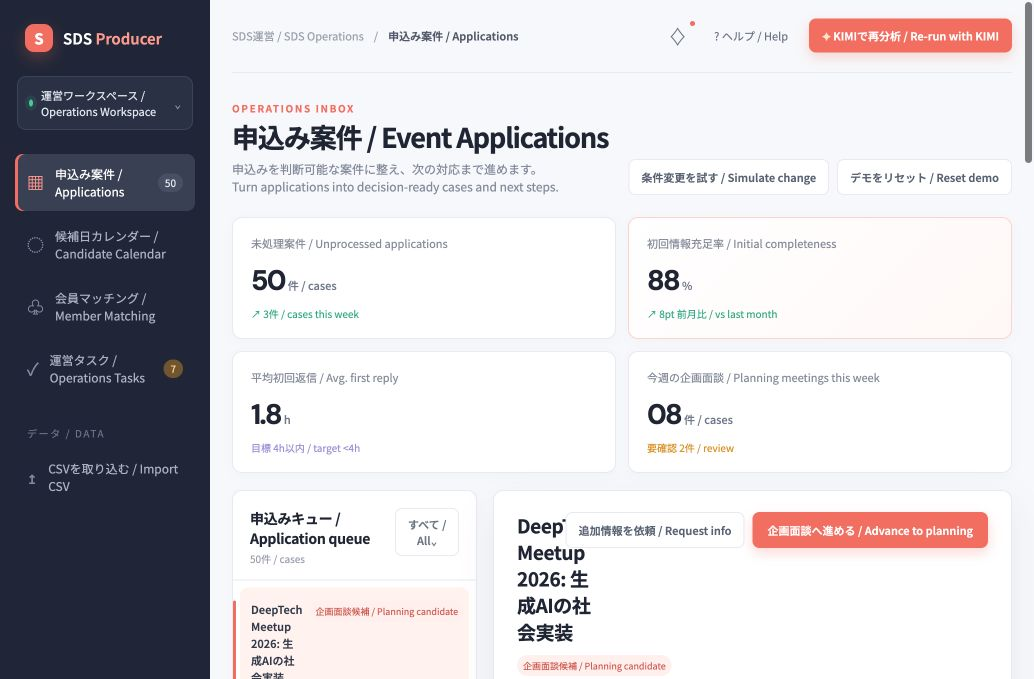
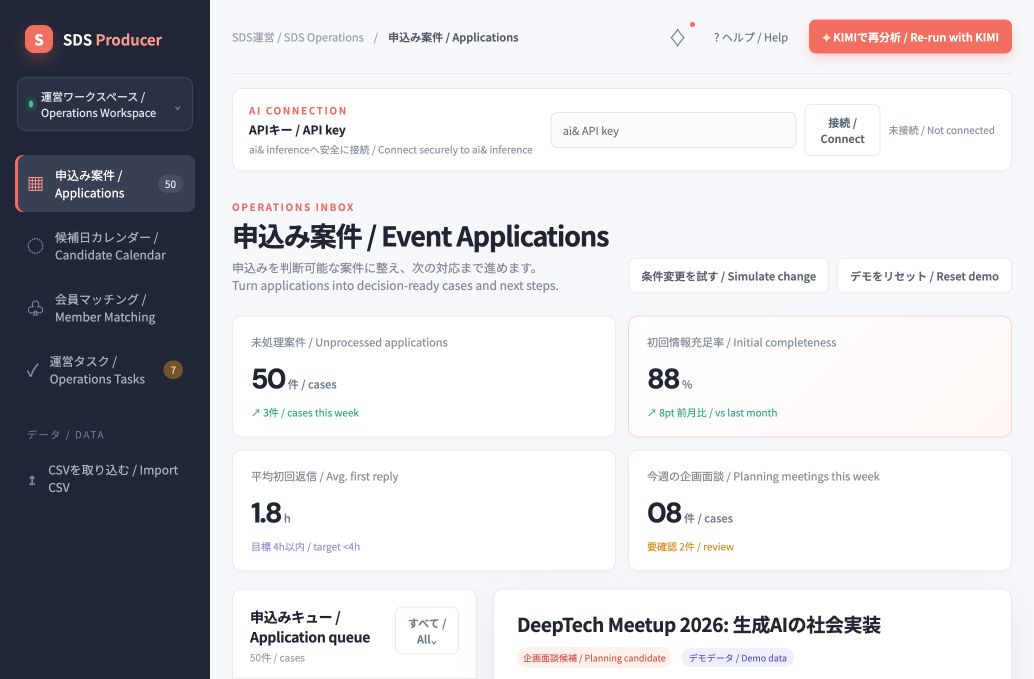
Add API key connection bar and fix responsive layout

diff --git a/public/styles.css b/public/styles.css
@@ -1,2 +1,3 @@
 :root{--ink:#1f2533;--muted:#788091;--line:#e8eaf0;--paper:#fff;--canvas:#f7f8fb;--navy:#202637;--coral:#f16e61;--coral-soft:#fff0ed;--mint:#2ea884;--mint-soft:#e8f7f1;--amber:#d99025;--amber-soft:#fff5df;--purple:#7765d8;--shadow:0 14px 36px rgba(32,38,55,.07)}*{box-sizing:border-box}body{margin:0;background:var(--canvas);color:var(--ink);font-family:"Noto Sans JP","DM Sans",sans-serif;font-size:13px}button{font:inherit;cursor:pointer;border:0;background:none;color:inherit}.app-shell{display:flex;min-height:100vh}.sidebar{width:240px;background:var(--navy);color:#dfe3ec;padding:25px 15px 18px;display:flex;flex-direction:column}.brand{display:flex;align-items:center;gap:10px;font-size:15px;font-weight:600;color:#fff;padding:0 10px 24px}.brand b{color:#ff9a8e;font-weight:600}.brand-mark{display:grid;place-items:center;width:28px;height:28px;border-radius:9px;background:var(--coral);color:#fff;font-weight:800;box-shadow:0 6px 14px #ef645546}.workspace-switcher{margin:0 2px 24px;padding:10px 11px;background:#2a3144;border:1px solid #3b4359;border-radius:9px;display:flex;align-items:center;gap:8px;font-size:11px}.pulse-dot,.online-dot{width:7px;height:7px;border-radius:50%;background:#49c794;box-shadow:0 0 0 4px #49c7941b}.chevron{margin-left:auto;color:#8992a7}.main-nav{display:grid;gap:5px}.nav-item{display:flex;align-items:center;gap:11px;padding:11px 12px;border-radius:8px;color:#aab2c3;text-align:left;font-size:12px}.nav-item span:first-child{font-size:17px;line-height:1;color:#7f8aa2}.nav-item.active{background:#3a4053;color:#fff;box-shadow:inset 3px 0 var(--coral)}.nav-item.active span:first-child{color:#ff978c}.nav-count{margin-left:auto;background:#474f64;padding:2px 7px;border-radius:99px;font-size:10px;color:#e6e9f0}.nav-count.amber{background:#71552f;color:#ffd998}.sidebar-section-label{font-size:10px;letter-spacing:.16em;color:#69738b;margin:29px 12px 8px}.sidebar-bottom{margin-top:auto}.kimi-card{display:flex;align-items:center;gap:9px;padding:12px;margin:10px 2px 17px;background:linear-gradient(135deg,#30384d,#293044);border:1px solid #444c61;border-radius:10px;position:relative}.kimi-card strong{display:block;color:#fff;font-size:12px}.kimi-card small{display:block;color:#98a1b4;font-size:10px;margin-top:2px}.kimi-orb{display:grid;place-items:center;width:30px;height:30px;border-radius:50%;background:linear-gradient(145deg,#ad9bff,#6d62cf);color:#fff;font-size:18px}.kimi-card .eyebrow{font-size:8px;color:#9ca7bc;margin-bottom:2px}.online-dot{margin-left:auto}.user-row{display:flex;align-items:center;gap:9px;padding:12px 8px 2px;border-top:1px solid #373e52}.avatar{display:grid;place-items:center;width:30px;height:30px;border-radius:9px;background:#f8aa80;color:#5b3242;font-weight:700;font-size:10px}.user-row strong{display:block;font-size:11px;color:#fff}.user-row small{display:block;color:#8992a7;font-size:10px;margin-top:2px}.more{margin-left:auto;color:#7e899e}.main-content{flex:1;min-width:0;padding:0 35px 45px}.topbar{height:74px;display:flex;align-items:center;justify-content:space-between;border-bottom:1px solid var(--line)}.breadcrumbs{display:flex;gap:10px;color:#9aa0ac;font-size:11px}.breadcrumbs strong{color:#515969;font-weight:600}.top-actions{display:flex;align-items:center;gap:15px}.icon-btn{font-size:19px;color:#6f7787;position:relative}.notification-dot{position:absolute;right:-2px;top:0;width:5px;height:5px;background:var(--coral);border-radius:50%}.help-btn{color:#697184;font-size:11px}.primary-btn,.secondary-btn,.filter-btn{border-radius:7px;font-size:11px;font-weight:600;transition:.2s}.primary-btn{background:var(--coral);color:#fff;padding:10px 15px;box-shadow:0 5px 12px #f16e6140}.primary-btn:hover{transform:translateY(-1px);background:#e75f53}.primary-btn.compact{padding:9px 13px}.secondary-btn{border:1px solid var(--line);background:#fff;color:#596273;padding:9px 12px}.secondary-btn:hover,.filter-btn:hover{border-color:#c8cdd9;background:#fafbfc}.sparkle{color:#ffe4ca}.page-heading{display:flex;justify-content:space-between;align-items:flex-end;padding:28px 0 22px}.eyebrow{font-size:10px;letter-spacing:.16em;font-weight:700;color:#8e96a5}.eyebrow.coral{color:var(--coral)}h1{font-size:27px;line-height:1.2;margin:5px 0 7px;letter-spacing:-.04em}h2{font-size:14px;margin:0;letter-spacing:-.02em}h3{font-size:13px;margin:0}.page-heading p{margin:0;color:#838b9b;font-size:12px}.heading-actions{display:flex;gap:8px}.kpi-grid{display:grid;grid-template-columns:repeat(4,1fr);gap:12px;margin-bottom:17px}.kpi-card{background:var(--paper);border:1px solid var(--line);border-radius:10px;padding:17px 18px;box-shadow:0 3px 12px #20263706}.kpi-card.accent{border-color:#ffd2cb;background:linear-gradient(135deg,#fff,#fff8f7)}.kpi-label{font-size:11px;color:#858c9a;margin-bottom:11px}.kpi-value{font-family:"DM Sans","Noto Sans JP",sans-serif;font-weight:700;font-size:28px;letter-spacing:-.06em}.kpi-unit{font-family:"Noto Sans JP",sans-serif;font-size:11px;font-weight:500;letter-spacing:0;margin-left:3px;color:#70798a}.kpi-trend{font-size:10px;margin-top:8px}.kpi-trend.up{color:var(--mint)}.kpi-trend.neutral{color:#9a91d8}.kpi-trend.amber{color:var(--amber)}.workspace-grid{display:grid;grid-template-columns:285px minmax(0,1fr);gap:16px;align-items:start}.card,.detail-card{background:var(--paper);border:1px solid var(--line);border-radius:10px;box-shadow:0 3px 12px #20263705}.case-list{overflow:hidden;min-height:630px}.card-header{padding:17px 17px 13px;display:flex;justify-content:space-between;align-items:flex-start;border-bottom:1px solid var(--line)}.muted{color:#9aa1ad;font-size:10px}.filter-btn{border:1px solid var(--line);padding:7px 10px;color:#6e7686;background:#fff}.case-list-items{padding:7px}.case-row{padding:13px 11px;border-radius:8px;cursor:pointer;position:relative;margin-bottom:2px}.case-row:hover{background:#faf9fb}.case-row.selected{background:#fff2ef}.case-row.selected:before{content:"";position:absolute;left:-7px;top:13px;bottom:13px;width:3px;border-radius:4px;background:var(--coral)}.case-row-top{display:flex;justify-content:space-between;gap:7px;align-items:start}.case-row-title{font-weight:600;font-size:11px;line-height:1.55;color:#333a49}.case-row-company{font-size:10px;color:#9299a7;margin-top:4px}.status-pill{font-size:9px;padding:4px 6px;border-radius:99px;white-space:nowrap}.status-pill.coral{color:#ce554c;background:var(--coral-soft)}.status-pill.mint{color:#23876b;background:var(--mint-soft)}.status-pill.amber{color:#a26b18;background:var(--amber-soft)}.case-detail{min-width:0}.detail-hero{background:var(--paper);border:1px solid var(--line);border-radius:10px;box-shadow:var(--shadow);padding:21px 23px 20px;display:flex;justify-content:space-between;gap:18px}.detail-hero-main{min-width:0}.detail-title-line{display:flex;align-items:center;gap:10px;margin-bottom:6px;flex-wrap:wrap}.detail-title-line h2{font-size:19px;line-height:1.4}.hero-meta{display:flex;gap:17px;color:#858d9d;font-size:10px;margin-top:11px;flex-wrap:wrap}.hero-meta strong{color:#4f5868;font-weight:600;margin-right:4px}.hero-actions{display:flex;gap:8px;align-items:flex-start;flex-shrink:0}.progress-block{margin-top:16px;max-width:390px}.progress-label{display:flex;justify-content:space-between;color:#7f8796;font-size:10px;margin-bottom:6px}.progress-label strong{color:#4b5566}.progress-track{height:6px;background:#edf0f4;border-radius:99px;overflow:hidden}.progress-fill{height:100%;background:linear-gradient(90deg,#f49a86,#f16e61);border-radius:99px}.detail-grid{display:grid;grid-template-columns:minmax(0,1.1fr) minmax(270px,.9fr);gap:14px;margin-top:14px}.detail-card{padding:18px}.section-heading{display:flex;justify-content:space-between;align-items:center;margin-bottom:14px}.section-heading h3{font-size:12px}.section-heading .section-kicker{font-size:9px;letter-spacing:.12em;color:#a1a7b3}.fit-layout{display:flex;gap:17px;align-items:center}.fit-score{width:76px;height:76px;border-radius:50%;display:grid;place-items:center;background:conic-gradient(var(--coral) 0 312deg,#f0f1f4 312deg 360deg);position:relative;flex-shrink:0}.fit-score:after{content:"";position:absolute;inset:7px;background:#fff;border-radius:50%}.fit-score strong,.fit-score small{position:relative;z-index:1}.fit-score strong{font-family:"DM Sans";font-size:23px;line-height:1}.fit-score small{font-size:9px;color:#8b92a0;margin-top:-12px}.fit-copy{flex:1}.fit-copy p{margin:0;color:#687183;font-size:11px;line-height:1.75}.bullet-list{display:grid;gap:6px;margin:13px 0 0;padding:0;list-style:none}.bullet-list li{font-size:10px;color:#677081;display:flex;gap:7px;line-height:1.5}.bullet-list li:before{content:"✓";color:var(--mint);font-weight:700}.date-card{min-height:198px}.date-list{display:grid;gap:7px}.date-item{display:flex;align-items:center;gap:10px;border:1px solid #edf0f3;border-radius:7px;padding:9px 10px}.date-item.available{border-color:#cfece1;background:#fbfffd}.date-item.blocked{background:#fffafa;border-color:#f5d7d2}.date-icon{width:26px;height:26px;border-radius:7px;display:grid;place-items:center;background:#f1f2f6;color:#747c8c;font-size:12px}.date-item.available .date-icon{background:var(--mint-soft);color:var(--mint)}.date-item.blocked .date-icon{background:var(--coral-soft);color:var(--coral)}.date-copy{min-width:0}.date-copy strong{display:block;font-size:11px}.date-copy small{display:block;color:#929aa7;font-size:9px;margin-top:3px}.date-badge{margin-left:auto;font-size:9px;color:#28866a}.date-item.blocked .date-badge{color:#c85e53}.questions{display:grid;gap:8px}.question-item{padding:10px 11px;border-left:3px solid var(--amber);background:#fffaf0;border-radius:0 7px 7px 0;color:#6e5a35;font-size:10px;line-height:1.6}.empty-state{padding:14px;background:#f7faf9;border-radius:8px;color:#6b8279;font-size:10px}.member-list,.task-list{display:grid;gap:8px}.member-item{display:grid;grid-template-columns:31px 1fr auto;gap:9px;align-items:center;padding:10px 0;border-bottom:1px solid #f0f1f4}.member-item:last-child{border-bottom:0}.member-avatar{display:grid;place-items:center;width:31px;height:31px;border-radius:9px;background:#eeeafd;color:#6a5dc8;font-size:11px;font-weight:700}.member-item strong,.task-item strong{display:block;font-size:10px}.member-item small,.task-item small{display:block;color:#9299a6;font-size:9px;margin-top:3px;line-height:1.4}.match-tag{padding:3px 6px;border-radius:99px;color:#6b60ca;background:#efedff;font-size:9px}.task-item{display:grid;grid-template-columns:17px 1fr auto;gap:8px;padding:8px 0;border-bottom:1px solid #f0f1f4;align-items:start}.task-check{width:15px;height:15px;border:1px solid #d8dce4;border-radius:4px}.task-meta{font-size:9px;color:#a0a6b1}.priority-high{color:var(--coral)}.priority-mid{color:var(--amber)}.priority-low{color:#8d96a4}.reply-box{background:#fbfaf8;border:1px solid #eee9e1;border-radius:8px;padding:13px;color:#656b78;font-size:10px;line-height:1.8;white-space:pre-line;min-height:126px}.reply-footer{display:flex;justify-content:flex-end;margin-top:9px}.link-btn{font-size:10px;color:var(--coral);font-weight:600}.recommend-card{background:linear-gradient(135deg,#282f42,#333b51);color:#fff;border:0}.recommend-card .section-heading h3{color:#fff}.recommend-action{font-size:15px;font-weight:700;margin-bottom:7px}.recommend-reason{font-size:10px;line-height:1.7;color:#c1c8d7;margin:0}.recommend-actions{display:flex;gap:7px;margin-top:16px;flex-wrap:wrap}.recommend-actions button{padding:8px 10px;border-radius:6px;font-size:10px;background:#fff;color:#3b4253}.recommend-actions button.secondary-dark{background:#444d64;color:#edf0f8}.toast{position:fixed;right:25px;bottom:22px;background:#273046;color:#fff;padding:11px 14px;border-radius:8px;font-size:11px;opacity:0;transform:translateY(10px);transition:.25s;pointer-events:none;box-shadow:0 10px 22px #20263735}.toast.show{opacity:1;transform:translateY(0)}.loading{opacity:.6;pointer-events:none}.mode-tag{font-size:9px;padding:3px 7px;border-radius:99px;background:#edf0ff;color:#6054ba}.mode-tag.kimi{background:#e9f8f2;color:#248c6e}@media(max-width:1150px){.sidebar{width:210px}.main-content{padding:0 22px 35px}.workspace-grid{grid-template-columns:245px minmax(0,1fr)}.detail-grid{grid-template-columns:1fr}.kpi-grid{grid-template-columns:repeat(2,1fr)}}@media(max-width:800px){.sidebar{display:none}.main-content{padding:0 14px 30px}.topbar{height:62px}.page-heading{align-items:flex-start;gap:15px;flex-direction:column}.heading-actions{width:100%}.workspace-grid{grid-template-columns:1fr}.case-list{min-height:auto}.case-list-items{display:flex;overflow:auto}.case-row{min-width:215px}.detail-hero{flex-direction:column}.hero-actions{align-self:flex-end}.kpi-grid{gap:8px}.kpi-card{padding:13px}.kpi-value{font-size:23px}}
  .case-list-items{max-height:650px;overflow:auto}
+.api-key-strip{display:flex;align-items:center;justify-content:space-between;gap:18px;margin-top:14px;padding:14px 16px;background:#fff;border:1px solid var(--line);border-radius:10px;box-shadow:0 3px 12px #20263705}.api-key-copy{min-width:220px}.api-key-copy strong{display:block;font-size:12px;margin-top:3px}.api-key-copy small{display:block;color:#8d95a3;font-size:10px;margin-top:4px}.api-key-control{display:flex;align-items:center;justify-content:flex-end;gap:8px;min-width:0;flex:1}.api-key-control input{width:min(360px,100%);height:36px;border:1px solid #dfe2e9;border-radius:7px;padding:0 11px;color:var(--ink);font:inherit;font-size:11px;background:#fbfcfe;outline:none}.api-key-control input:focus{border-color:#f49a86;box-shadow:0 0 0 3px #f16e611c}.api-key-status{font-size:10px;color:#8b93a1;white-space:nowrap}.api-key-status.connected{color:var(--mint);font-weight:700}.sr-only{position:absolute;width:1px;height:1px;padding:0;margin:-1px;overflow:hidden;clip:rect(0,0,0,0);white-space:nowrap;border:0}.detail-hero{display:grid;grid-template-columns:minmax(0,1fr) minmax(280px,auto);align-items:start}.hero-actions{justify-content:flex-end;flex-wrap:wrap;max-width:100%}@media(max-width:1150px){.detail-hero{grid-template-columns:1fr}.hero-actions{justify-content:flex-start;margin-top:4px}}@media(max-width:800px){.api-key-strip{align-items:stretch;flex-direction:column;gap:12px}.api-key-control{justify-content:stretch;flex-wrap:wrap}.api-key-control input{flex:1 1 180px}.api-key-status{width:100%}.detail-hero{grid-template-columns:1fr}}

diff --git a/public/app.js b/public/app.js
@@ -68,6 +68,46 @@ const formatDate = (value) => {
 };
 const toast = (message) => { const el = $("#toast"); el.textContent = message; el.classList.add("show"); setTimeout(() => el.classList.remove("show"), 2800); };
 
+async function refreshApiKeyStatus() {
+  try {
+    const response = await fetch("/api/health");
+    const payload = await response.json();
+    const status = $("#apiKeyStatus");
+    if (payload.kimiConfigured) {
+      status.textContent = "接続済み / Connected";
+      status.classList.add("connected");
+    }
+  } catch {
+    // The dashboard can still run in demo mode when the health check is unavailable.
+  }
+}
+
+async function connectApiKey() {
+  const input = $("#apiKeyInput");
+  const button = $("#saveApiKey");
+  const status = $("#apiKeyStatus");
+  const apiKey = input.value.trim();
+  if (!apiKey) return toast("APIキーを入力してください / Enter an API key");
+  button.classList.add("loading");
+  button.textContent = "接続中 / Connecting…";
+  try {
+    const response = await fetch("/api/config", { method: "POST", headers: { "content-type": "application/json" }, body: JSON.stringify({ apiKey }) });
+    const payload = await response.json();
+    if (!response.ok || !payload.kimiConfigured) throw new Error(payload.error || "API key was not accepted");
+    input.value = "";
+    status.textContent = "接続済み / Connected";
+    status.classList.add("connected");
+    toast("KIMI接続を設定しました / KIMI connection configured");
+  } catch (error) {
+    status.textContent = "接続失敗 / Connection failed";
+    status.classList.remove("connected");
+    toast(`${error.message} / Connection failed`);
+  } finally {
+    button.classList.remove("loading");
+    button.textContent = "接続 / Connect";
+  }
+}
+
 function demoAnalysis() {
   const app = state.application || DEMO_APPLICATION;
   const area = String(app.deeptechArea || "").split(" / ")[0];
@@ -250,9 +290,11 @@ async function loadBundledDemoData() {
 }
 
 $("#analyzeButton").addEventListener("click", runAnalysis);
+$("#saveApiKey").addEventListener("click", connectApiKey);
 $("#scenarioButton").addEventListener("click", () => { state.scenario = !state.scenario; toast(state.scenario ? "第1希望日を利用困難に変更しました / First requested date is now unavailable" : "通常の希望条件に戻しました / Restored normal conditions"); state.analysis = demoAnalysis(); render(); });
 $("#resetButton").addEventListener("click", () => { state.application = structuredClone(DEMO_APPLICATION); state.scenario = false; state.analysis = demoAnalysis(); render(); toast("デモ案件をリセットしました / Demo case reset"); });
 $("#importCsv").addEventListener("click", () => $("#csvInput").click());
 $("#csvInput").addEventListener("change", async (event) => { const file = event.target.files?.[0]; if (!file) return; const rows = parseCsv(await file.text()); if (!rows.length) return toast("CSVにデータ行がありません / No data rows found in CSV"); CASES = buildCsvCases(rows); state.application = structuredClone(CASES[0].application); state.activeCase = CASES[0].id; state.scenario = false; state.analysis = demoAnalysis(); render(); toast(`${rows.length}件の申込案件を読み込みました / Loaded ${rows.length} applications`); });
 state.analysis = demoAnalysis(); render();
 loadBundledDemoData();
+refreshApiKeyStatus();

diff --git a/public/index.html b/public/index.html
@@ -31,6 +31,10 @@
 
       <main class="main-content">
         <header class="topbar"><div class="breadcrumbs"><span>SDS運営 / SDS Operations</span><span>/</span><strong>申込み案件 / Applications</strong></div><div class="top-actions"><button class="icon-btn" title="通知 / Notifications">♢<span class="notification-dot"></span></button><button class="help-btn">? ヘルプ / Help</button><button class="primary-btn compact" id="analyzeButton"><span class="sparkle">✦</span> KIMIで再分析 / Re-run with KIMI</button></div></header>
+        <section class="api-key-strip" aria-label="API接続 / API connection">
+          <div class="api-key-copy"><div class="eyebrow coral">AI CONNECTION</div><strong>APIキー / API key</strong><small>ai& inferenceへ安全に接続 / Connect securely to ai& inference</small></div>
+          <div class="api-key-control"><label class="sr-only" for="apiKeyInput">APIキー / API key</label><input id="apiKeyInput" type="password" placeholder="ai& API key" autocomplete="off" spellcheck="false" /><button class="secondary-btn" id="saveApiKey">接続 / Connect</button><span class="api-key-status" id="apiKeyStatus">未接続 / Not connected</span></div>
+        </section>
         <section class="page-heading"><div><div class="eyebrow coral">OPERATIONS INBOX</div><h1>申込み案件 / Event Applications</h1><p>申込みを判断可能な案件に整え、次の対応まで進めます。<br />Turn applications into decision-ready cases and next steps.</p></div><div class="heading-actions"><button class="secondary-btn" id="scenarioButton">条件変更を試す / Simulate change</button><button class="secondary-btn" id="resetButton">デモをリセット / Reset demo</button></div></section>
 
         <section class="kpi-grid" aria-label="案件サマリー / Application summary">
